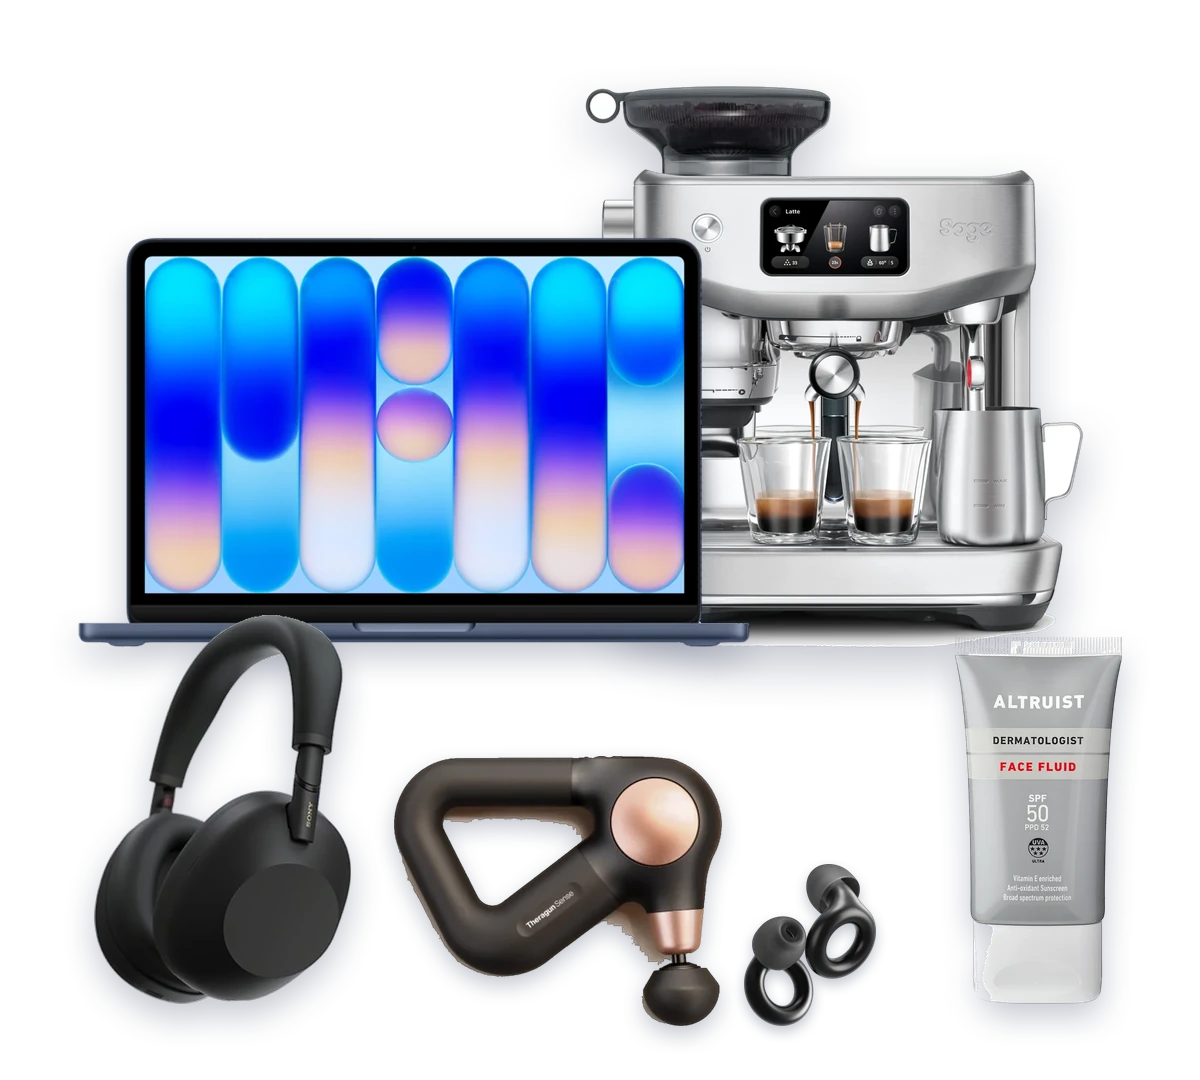
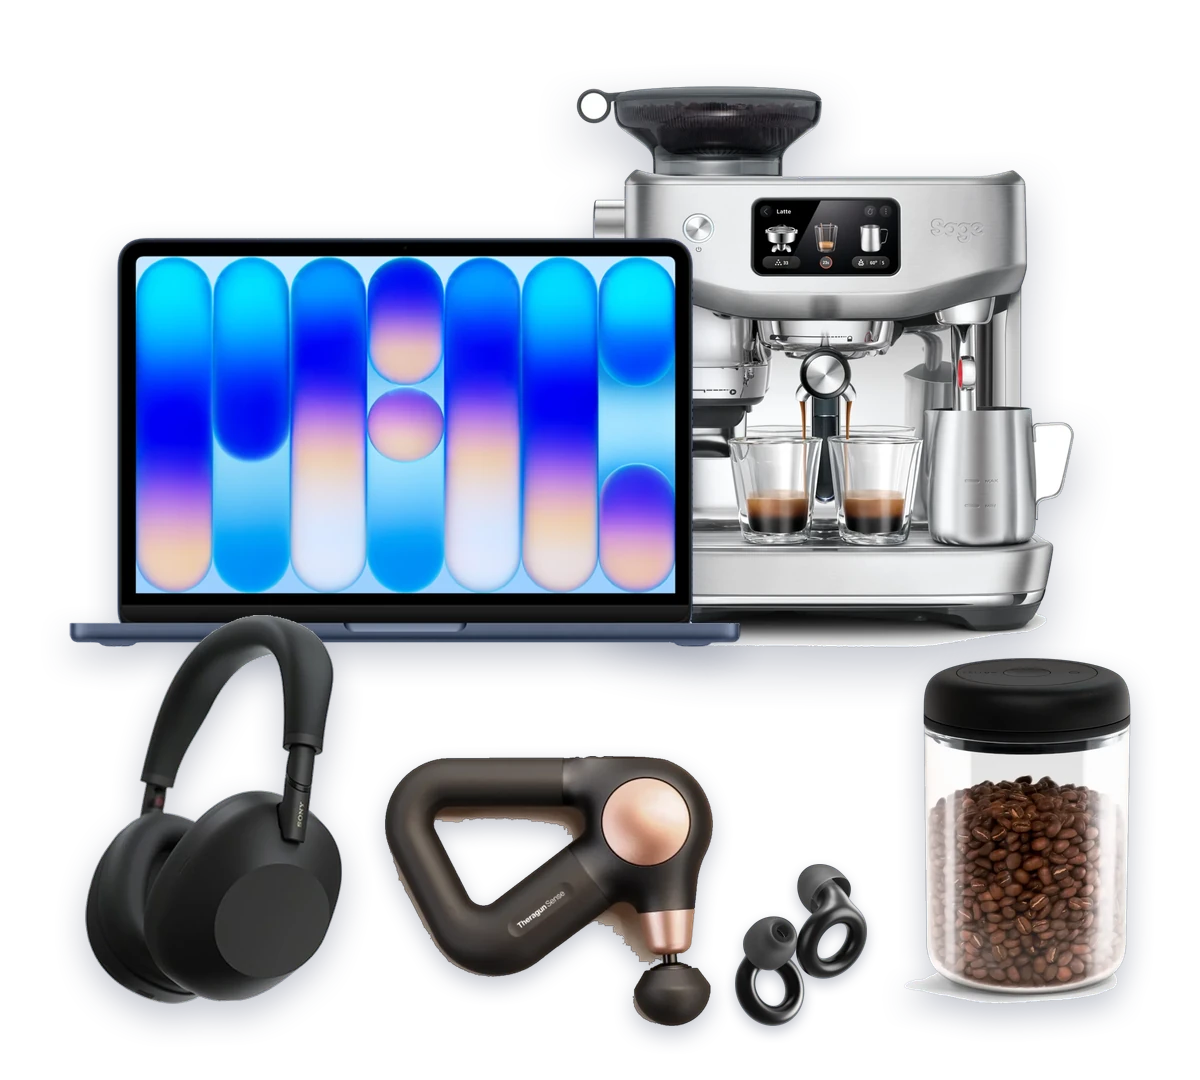
Shorter drawbacks; hero picture without the sunscreen
Aron asked for less text in the honest drawback and for the face
sunscreen to come out of the home page picture.

- Every drawback (all 26 entries, all researched) is now one short
  sentence with its main weakness, at most 105 characters, down from
  178-324. The write-ups still cover the rest under who should skip it.
- Drawbacks are capped at 120 characters in the content schema and the
  admin form, so new ones stay short.
- The collection picture drops the sunscreen: seven products on wide
  screens, and the coffee canister takes its place on phones.

Claude-Session: https://claude.ai/code/session_01LJzcezH7ypu3YQrJLWVmbd

diff --git a/src/content.config.ts b/src/content.config.ts
@@ -48,7 +48,8 @@ const kit = defineCollection({
         asin: z.preprocess(blank, asin.optional()),
         /** Multi-option entries (the laptop): exactly three use-case picks instead of one ASIN. */
         picks: z.preprocess(blank, z.array(pick).length(3).optional()),
-        drawback: z.string().min(1),
+        /** One short sentence: the pull quote on the product page. */
+        drawback: z.string().min(1).max(120),
         health: z.boolean().default(false),
         healthNote: z.preprocess(blank, z.string().min(1).optional()),
         /** Position within its category. The admin sets it when products are dragged into order; new ones sort last. */

diff --git a/src/pages/admin/config.yml.ts b/src/pages/admin/config.yml.ts
@@ -190,8 +190,9 @@ const products = {
       name: "drawback",
       label: "The honest drawback",
       widget: "text",
+      maxlength: 120,
       pattern: plainText("The drawback"),
-      hint: "Every product needs one. Put widely reported weaknesses in your own words; never copy Amazon reviews.",
+      hint: "Every product needs one: one short sentence with the main weakness, in your own words. Never copy Amazon reviews.",
     },
     {
       name: "health",

diff --git a/src/profiles/aron/kit/massage-gun.md b/src/profiles/aron/kit/massage-gun.md
@@ -12,7 +12,7 @@ highlights:
   - "About 0.73 kg, USB-C"
 experience: researched
 asin: B0G82W9ZZK
-drawback: "At about 0.73 kg it is heavier than the smallest mini guns, and it comes with only two heads. It also has less stall force than full-size models, so people who like very deep pressure on big thigh muscles may find it stops when they lean in."
+drawback: "Only two heads, and it can stall when you lean in hard on big thigh muscles."
 health: true
 healthNote: "Hyperice's safety instructions for the Hypervolt range say not to use it, or any percussion device, without a doctor's approval if you are pregnant, have diabetes with complications such as neuropathy or retinal damage, wear a pacemaker, have had recent surgery or injury, have epilepsy or migraines, herniated discs, spondylolisthesis, spondylolysis or spondylosis, or have recent joint replacements, an IUD, or metal pins or plates. Use it only on soft tissue, never on the head or bony areas, and stop at the first sign of pain or bruising. Also speak to your GP first if you have varicose veins or a history of blood clots."
 order: 2

diff --git a/src/profiles/aron/kit/theragun-sense.md b/src/profiles/aron/kit/theragun-sense.md
@@ -14,7 +14,7 @@ image: "./images/theragun-sense.webp"
 imageCredit: "Therabody"
 experience: researched
 asin: B0FNX9TF9R
-drawback: "It is built for relaxation rather than deep work, with less punch than Therabody's pro models, so people who want heavy pressure on big thigh muscles may find it too gentle. It comes with only two attachments, and the heart-rate sensor is only used for the breathing routines."
+drawback: "Built for relaxation, so it can feel too gentle if you want deep pressure on big muscles."
 health: true
 healthNote: "Makers of percussive massagers, Therabody included, advise asking a doctor before use if you are pregnant, have diabetes with complications such as neuropathy, wear a pacemaker or other implanted device, have had recent surgery or an injury, have epilepsy, or have joint replacements, metal pins or plates. Use it only on soft tissue, never on the head, the front of the neck or bony areas, and stop at the first sign of pain, numbness or bruising. Speak to your GP first if you have varicose veins or a history of blood clots."
 order: 2

diff --git a/src/profiles/aron/kit/sunscreen.md b/src/profiles/aron/kit/sunscreen.md
@@ -14,7 +14,7 @@ image: "./images/sunscreen.webp"
 imageCredit: "Altruist"
 experience: researched
 asin: B0CWPH59MQ
-drawback: "The finish is dewy rather than matte, closer to a rich moisturiser, which people with oily skin often dislike. It can pill around the hairline and neck if layered quickly over other products, and some users find it stings when sweat carries it into the eyes."
+drawback: "A dewy finish, closer to a rich moisturiser, which people with oily skin often dislike."
 health: true
 healthNote: "EU guidance for every sunscreen: don't stay too long in the sun even with sunscreen on, keep babies and young children out of direct sunlight, and reapply often, especially after sweating, swimming or towelling. Most people apply far less than the amount the SPF is tested at, so be generous. Keep it out of your eyes, stop using it if it irritates your skin, and ask a pharmacist or doctor first if you have a skin condition or have reacted to sunscreen before."
 order: 1

diff --git a/src/profiles/aron/kit/tens-unit.md b/src/profiles/aron/kit/tens-unit.md
@@ -12,7 +12,7 @@ highlights:
   - "Two channels, eight pads included"
 experience: researched
 asin: B0FJRXMVK9
-drawback: "It is a budget unit from a little-known brand with next to no independent testing, so you are relying on the seller's description. The sticky pads lose their grip with use and need replacing, and 27 programmes is more choice than most people need, so finding a favourite takes some trial and error."
+drawback: "A budget unit with next to no independent testing, and the sticky pads need replacing."
 health: true
 healthNote: "Check the manual before first use. TENS and EMS manufacturers commonly say not to use a unit if you have a pacemaker, implanted defibrillator or other implanted electronic device, a heart condition or epilepsy, or if you are pregnant, without asking a doctor first. Never place pads on the front or sides of the neck, the head, across the chest, or on broken, irritated or numb skin, and don't use it while driving or in water."
 order: 1

diff --git a/src/profiles/aron/kit/compression-socks.md b/src/profiles/aron/kit/compression-socks.md
@@ -12,7 +12,7 @@ highlights:
   - "Silver-fibre yarn, knee-high"
 experience: researched
 asin: B01FZQZYNQ
-drawback: "Like most firm compression hosiery they take real effort to pull on, and the knit feels warm on a hot Spanish summer day. Buyers who pick a size from shoe size alone, without measuring the ankle, often end up with the wrong fit."
+drawback: "Firm to pull on and warm in summer, and sizing needs your ankle measured, not just your shoe size."
 health: true
 healthNote: "Relaxsan advises against wearing its compression hosiery overnight, or if you have serious arterial circulation problems, peripheral arterial occlusion, a recent or deep-vein thrombosis, weeping skin conditions on the legs, or an allergy to the materials. Diabetes with nerve damage in the feet and heart failure also call for a doctor's approval first. Speak to your GP or a pharmacist before you start, and take them off if your toes go numb, tingle or change colour."
 order: 2

diff --git a/src/profiles/aron/kit/face-sunscreen.md b/src/profiles/aron/kit/face-sunscreen.md
@@ -14,7 +14,7 @@ image: "./images/face-sunscreen.webp"
 imageCredit: "Altruist"
 experience: researched
 asin: B0B5273DN1
-drawback: "Because it is so runny, it is easy to pour out too much, and used at the amount the SPF is tested at, a 50 ml bottle doesn't last long with daily use. Some users find it stings if sweat carries it into the eyes."
+drawback: "So runny it's easy to pour out too much, and a 50 ml bottle goes quickly at the full amount."
 health: true
 healthNote: "EU guidance for every sunscreen: don't stay too long in the sun even with sunscreen on, keep babies and young children out of direct sunlight, and reapply often, especially after sweating, swimming or towelling. Most people apply far less than the amount the SPF is tested at, so be generous. Keep it out of your eyes, stop using it if it irritates your skin, and ask a pharmacist or doctor first if you have a skin condition or have reacted to sunscreen before."
 order: 2

diff --git a/src/profiles/aron/kit/xiaomi-smart-band-10.md b/src/profiles/aron/kit/xiaomi-smart-band-10.md
@@ -14,7 +14,7 @@ image: "./images/xiaomi-smart-band-10.webp"
 imageCredit: "Xiaomi"
 experience: researched
 asin: B0DYF82545
-drawback: "There's no built-in GPS, so runs and rides need your phone for distance and route, and there's no NFC for paying from the wrist. The 21 days is for typical use: Xiaomi's own figures drop to about nine days with the always-on display and eight with heavy use."
+drawback: "No GPS or NFC, and the 21-day battery drops to about nine days with the always-on display."
 health: true
 healthNote: "A fitness band, not a medical device: Xiaomi says its heart-rate, blood-oxygen, sleep and stress readings must not be used to diagnose anything. If the skin under the strap turns red or swollen, stop wearing it and see a doctor, and check with a doctor before starting a new exercise programme."
 order: 5

diff --git a/src/profiles/aron/kit/laptop.md b/src/profiles/aron/kit/laptop.md
@@ -23,7 +23,7 @@ picks:
     product: "Apple MacBook Air 13-inch M5, 16 GB, 512 GB"
     asin: B0GR1MZP3L
     why: "Fanless and silent, rated by Apple at up to 18 hours of video playback, and once both are signed in to the same Apple account it shares messages, photos of receipts and passwords with an iPhone."
-drawback: "The Lenovo's battery and screen are only adequate, and the Zenbook runs Windows on Arm, so check that any older accounting software, printer drivers or card-reader tools you rely on have Arm versions. The MacBook cannot run Windows-only programs at all."
+drawback: "The Zenbook runs Windows on Arm and the MacBook can't run Windows programs, so check your software first."
 health: false
 order: 2
 reviewed: 2026-09-26

diff --git a/docs/BRIEF.md b/docs/BRIEF.md
@@ -182,7 +182,7 @@ image: ./images/photo.webp           # optional, Aron's own photo (the admin upl
 featured: true                       # optional, the home page spotlight (one entry)
 experience: owned | researched
 asin: B0XXXXXXXX                     # or `picks:` (exactly three: label, product, asin, why)
-drawback: "honest, specific"
+drawback: "honest, specific"         # one short sentence, <= 120 chars (the product page's pull quote)
 health: false                        # true requires healthNote
 healthNote: "manufacturer contraindications"
 order: 1                             # position within the category

diff --git a/src/profiles/aron/kit/multi-cooker.md b/src/profiles/aron/kit/multi-cooker.md
@@ -14,7 +14,7 @@ image: "./images/multi-cooker.webp"
 imageCredit: "Ninja"
 experience: researched
 asin: B0CZPKSGFV
-drawback: "At about 39 x 38 x 33 cm and 10.5 kg it takes a big share of a worktop, and its door swings open to the side, so it needs clearance there. It lets off a lot of steam in the combination modes, so it wants to sit near an extractor rather than under a wall cupboard, and the inside is fiddly to wipe around the heating element."
+drawback: "Big and heavy at about 10.5 kg, and it lets off a lot of steam in the combination modes."
 health: false
 order: 3
 reviewed: 2026-09-28
